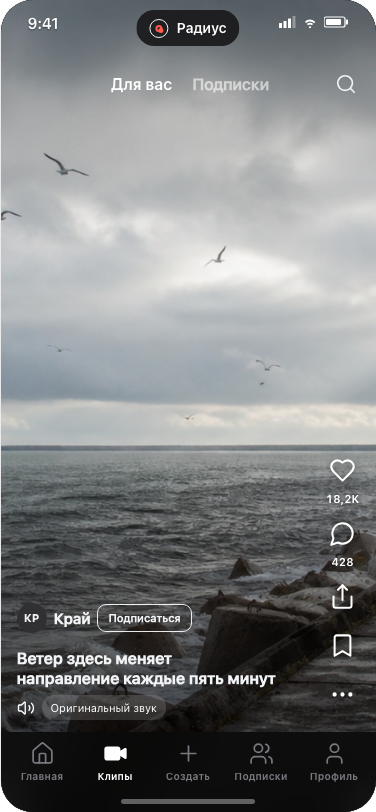
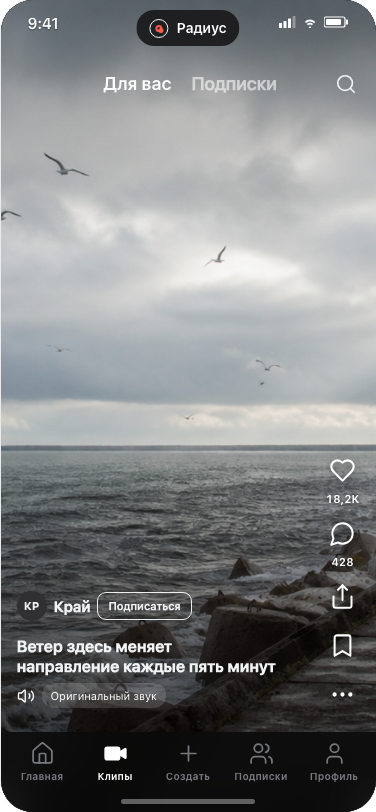
Refine Radius subscriptions and clips

diff --git a/platform/concepts/radius/styles.css b/platform/concepts/radius/styles.css
@@ -3816,6 +3816,74 @@
 .screen[data-screen="phone"] .rd-auth-copy,
 .screen[data-screen="code"] .rd-auth-copy { margin-top: 52px !important; }
 
+/* Final optical pass: subscriptions use product chips, not story rings. */
+.screen[data-screen="subscriptions"] .rd-storyrail {
+  gap: 14px !important;
+  padding: 10px 16px 12px !important;
+}
+.screen[data-screen="subscriptions"] .rd-story {
+  width: 58px !important;
+  min-width: 58px !important;
+  min-height: 0 !important;
+  padding: 0 !important;
+  display: block !important;
+  border-radius: 0 !important;
+  background: transparent !important;
+  color: #f2f3f5 !important;
+  font-size: 11px !important;
+  line-height: 14px !important;
+  font-weight: 510 !important;
+  text-align: center !important;
+}
+.screen[data-screen="subscriptions"] .rd-story-ring {
+  width: 50px !important;
+  height: 50px !important;
+  margin: 0 auto 6px !important;
+  padding: 2px !important;
+  border: 0 !important;
+  border-radius: 50% !important;
+  background: linear-gradient(145deg, #ff5c4d, #ff8a70) !important;
+}
+.screen[data-screen="subscriptions"] .rd-story-ring > div {
+  width: 46px !important;
+  height: 46px !important;
+  border: 2px solid #0a0a0a !important;
+  border-radius: 50% !important;
+  background: #303033 !important;
+  font-size: 12px !important;
+  font-weight: 700 !important;
+}
+.screen[data-screen="subscriptions"] .rd-notify {
+  min-height: 62px !important;
+  margin: 8px 16px 10px !important;
+  padding: 0 12px !important;
+  border-radius: 14px !important;
+  background: #202020 !important;
+}
+.screen[data-screen="subscriptions"] .rd-notify-copy {
+  gap: 0 !important;
+}
+.screen[data-screen="subscriptions"] .rd-notify-copy strong {
+  line-height: 16px !important;
+}
+.screen[data-screen="subscriptions"] .rd-notify-copy span {
+  margin-top: 0 !important;
+  line-height: 14px !important;
+}
+
+/* Clip controls share one optical baseline around the content block. */
+.screen[data-screen="clips"] .rd-clips-switch {
+  font-size: 18px !important;
+  line-height: 22px !important;
+  font-weight: 650 !important;
+}
+.screen[data-screen="clips"] .rd-clip-copy {
+  bottom: 104px !important;
+}
+.screen[data-screen="clips"] .rd-clip-actions {
+  bottom: 96px !important;
+}
+
 .screen[data-screen="deeplink"] .rd-nav {
   height: 52px !important;
   min-height: 52px !important;

diff --git a/platform/concepts/radius/screens/subscriptions.html b/platform/concepts/radius/screens/subscriptions.html
@@ -34,8 +34,8 @@
     <div class="rd-notify" data-ask="push|subscriptions|subscriptions">
       <svg class="rd-icon"><use href="#i-bell" /></svg>
       <div class="rd-notify-copy">
-        <strong>Уведомлять о новых видео</strong
-        ><span>Только избранные подписки</span>
+        <strong>Уведомления о новых видео</strong
+        ><span>Только для выбранных подписок</span>
       </div>
       <div class="rd-switch"></div>
     </div>
